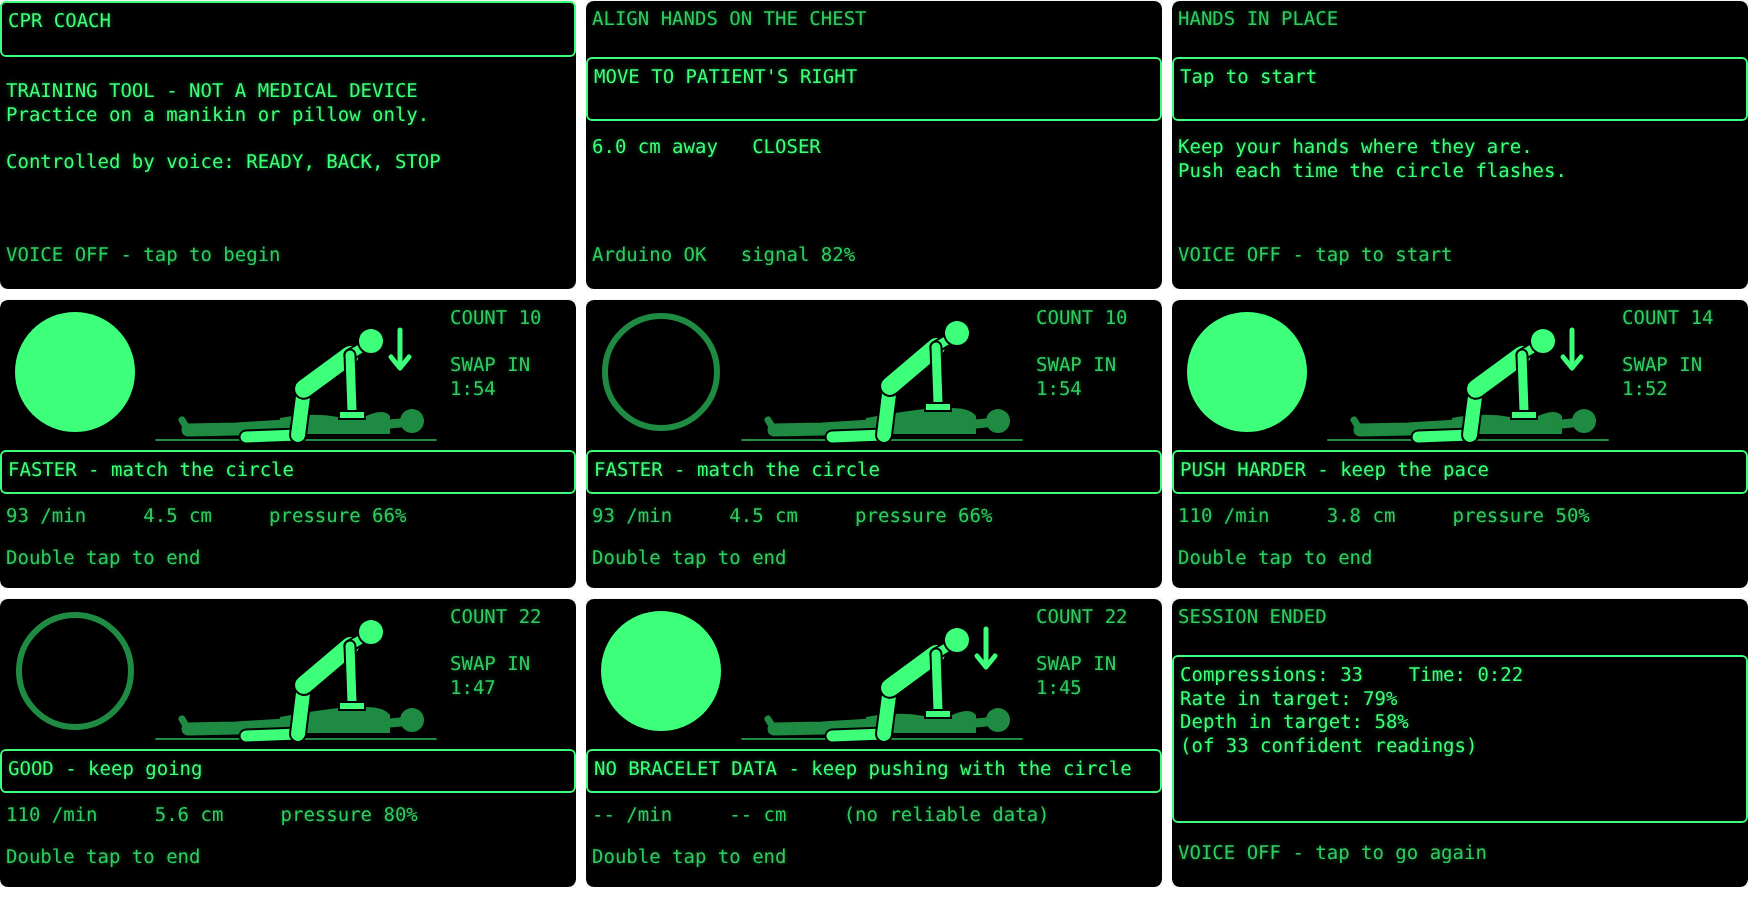
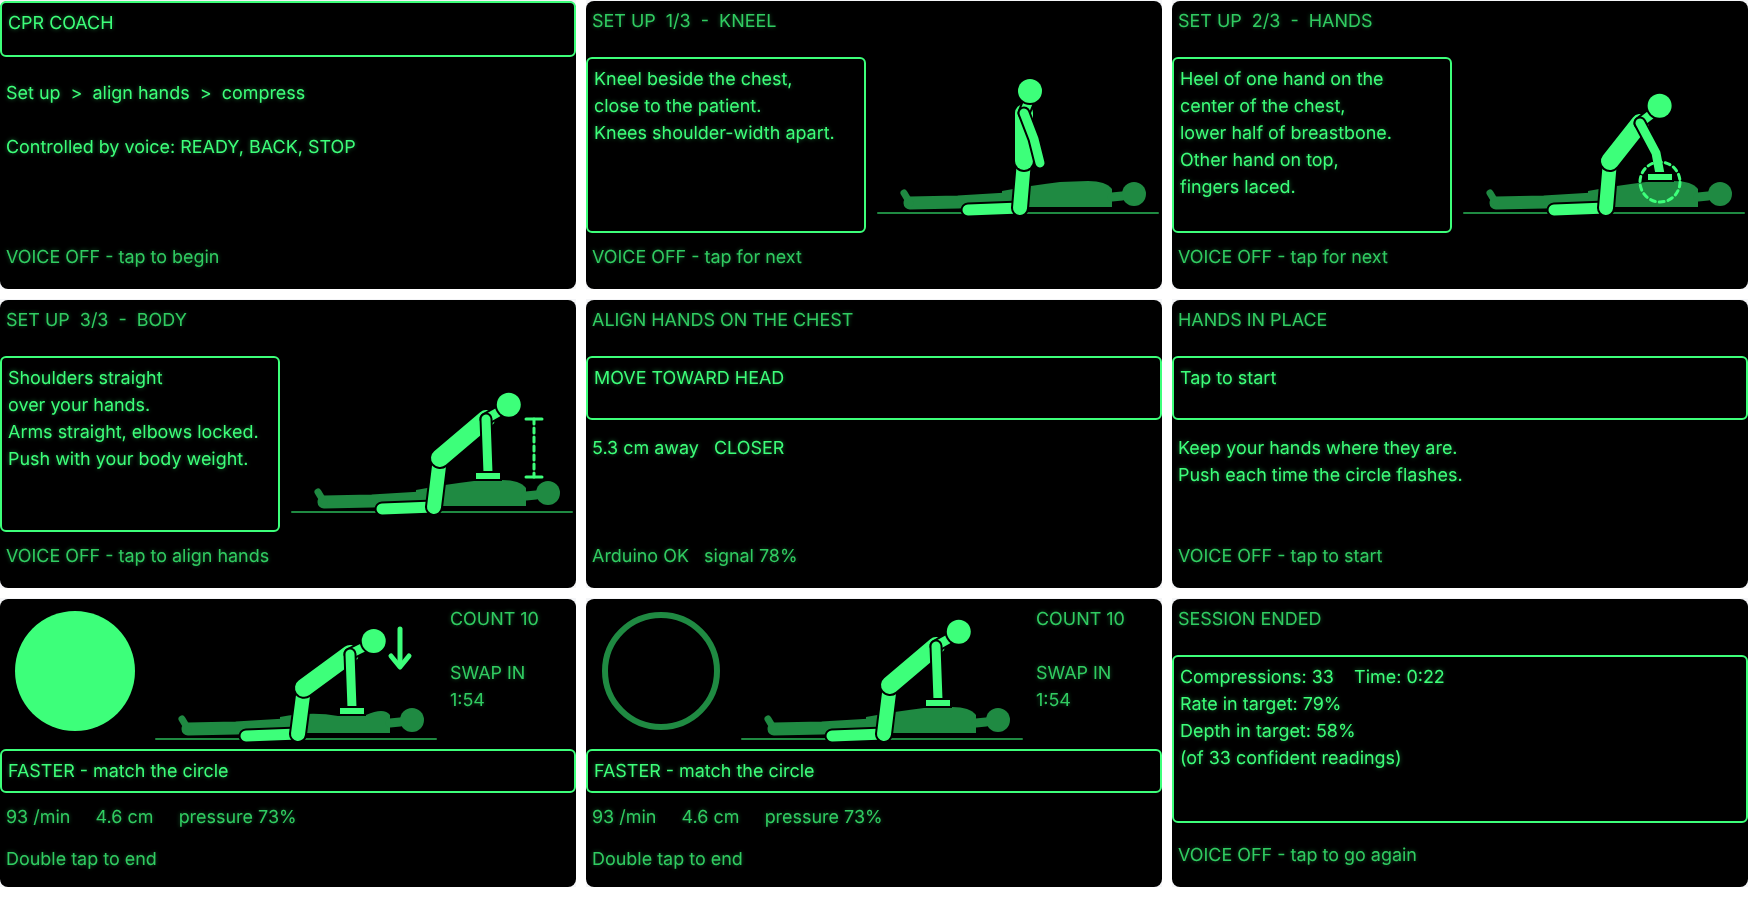
Glasses app: set-up pictures, simpler splash, calibrated preview
- Each set-up step (kneel, hands, body) shows a picture of the position,
  drawn with the same figure as the compression animation. Set-up text
  rewrapped into a column beside it (checked with G2 font metrics).
- Splash shows the steps and voice commands; the disclaimer lines were
  removed from the glasses (still on the phone page).
- Figure drawing refactored into shared poses.
- Browser preview font calibrated to G2 text widths and 27 px lines,
  so it wraps like the glasses.
- Version 0.1.3.

Claude-Session: https://claude.ai/code/session_017XyC9ZT1ua6WaKvQEUxhor

diff --git a/glasses-app/src/display/frames.ts b/glasses-app/src/display/frames.ts
@@ -4,6 +4,7 @@
  * - Pace circle: "beat-on" (filled disc) / "beat-off" (dim ring), flashed on each beat.
  * - CPR figure: "cpr-up" (arms straight, shoulders high) / "cpr-down" (pushing,
  *   chest compressed), swapped in time with the circle.
+ * - Set-up pictures (static): "setup-kneel", "setup-hands", "setup-body".
  *
  * The glasses get PNG bytes (white on black; the host converts to 4-bit grey and
  * the display tints it green). The browser preview gets a green version.
@@ -40,32 +41,55 @@ export function drawBeatCircle(ctx: CanvasRenderingContext2D, on: boolean, color
   }
 }
 
-/**
- * Draw one frame. `push` = 0 (top of stroke) .. 1 (bottom of stroke).
- *
- * Side view, patient on their back (head right), rescuer kneeling at the chest:
- * shoulders straight above the hands, arms locked. Because the arms are locked,
- * the shoulders drop by exactly the compression depth; the hips act as the hinge.
- */
-export function drawCprFigure(ctx: CanvasRenderingContext2D, push: number, color: string, dim: string): void {
+type P = [number, number];
+
+/** A rescuer pose, in figure coordinates (288 x 144, ground at y = 137). */
+interface Pose {
+  hip: P;
+  shoulder: P;
+  /** Shoulder -> (elbow ->) hands. Last point is where the hands are. */
+  arms: P[];
+  /** Draw stacked hands as a block at the end of the arms. */
+  handsOnChest: boolean;
+}
+
+interface SceneOpts {
+  /** Chest compression depth in px (0..8). */
+  depth?: number;
+  /** Down arrow (push frame). */
+  arrow?: boolean;
+  /** Dashed ring around the hand spot on the chest. */
+  highlightSpot?: boolean;
+  /** Dashed bracket from shoulder height to the hands ("shoulders over hands"). */
+  plumbLine?: boolean;
+}
+
+const GROUND = 137;
+const CHEST_X = 200;
+const chestTop = (depth: number) => 107 + depth;
+
+/** Patient + rescuer side view, shared by the set-up pictures and the CPR animation. */
+function drawScene(ctx: CanvasRenderingContext2D, pose: Pose, color: string, dim: string, o: SceneOpts = {}): void {
   const w = FIGURE_W;
   const h = FIGURE_H;
+  const depth = o.depth ?? 0;
   ctx.fillStyle = '#000';
   ctx.fillRect(0, 0, w, h);
   ctx.lineCap = 'round';
   ctx.lineJoin = 'round';
 
-  type P = [number, number];
   const path = (pts: P[]) => {
     ctx.beginPath();
     ctx.moveTo(pts[0][0], pts[0][1]);
     for (const [x, y] of pts.slice(1)) ctx.lineTo(x, y);
   };
-  const stroke = (pts: P[], width: number, c: string) => {
+  const stroke = (pts: P[], width: number, c: string, dash: number[] = []) => {
     path(pts);
+    ctx.setLineDash(dash);
     ctx.strokeStyle = c;
     ctx.lineWidth = width;
     ctx.stroke();
+    ctx.setLineDash([]);
   };
   /** Bright limb with a black outline so it reads clearly where it crosses the patient. */
   const limb = (pts: P[], width: number) => {
@@ -73,32 +97,26 @@ export function drawCprFigure(ctx: CanvasRenderingContext2D, push: number, color
     stroke(pts, width, color);
   };
   const disc = (x: number, y: number, r: number, c: string, outline = false) => {
+    if (outline) disc(x, y, r + 2, '#000');
     ctx.beginPath();
-    ctx.arc(x, y, r + (outline ? 2 : 0), 0, Math.PI * 2);
-    ctx.fillStyle = outline ? '#000' : c;
+    ctx.arc(x, y, r, 0, Math.PI * 2);
+    ctx.fillStyle = c;
     ctx.fill();
-    if (outline) disc(x, y, r, c);
   };
 
-  const ground = 137;
-  const depth = 8 * push; // compression depth in px (chest dip = shoulder drop)
-
   // Ground
-  stroke([[4, ground + 3], [w - 4, ground + 3]], 2, dim);
+  stroke([[4, GROUND + 3], [w - 4, GROUND + 3]], 2, dim);
 
-  // ---- Patient (dim) ----
-  const chestX = 200;
-  const chestTop = 107 + depth;
-  // Legs
-  stroke([[134, 126], [84, 129], [36, 130]], 13, dim);
+  // ---- Patient (dim), on their back, head to the right ----
+  const top = chestTop(depth);
+  stroke([[134, 126], [84, 129], [36, 130]], 13, dim); // legs
   stroke([[36, 130], [30, 120]], 7, dim); // feet pointing up
-  // Torso as a filled shape: back on the ground, chest rising under the hands.
   ctx.fillStyle = dim;
   ctx.beginPath();
   ctx.moveTo(128, 134);
   ctx.lineTo(128, 118);
-  ctx.quadraticCurveTo(160, 112, chestX - 14, chestTop + 2);
-  ctx.lineTo(chestX + 14, chestTop + 1);
+  ctx.quadraticCurveTo(160, 112, CHEST_X - 14, top + 2);
+  ctx.lineTo(CHEST_X + 14, top + 1);
   ctx.quadraticCurveTo(232, 108, 238, 116);
   ctx.lineTo(238, 134);
   ctx.closePath();
@@ -106,32 +124,93 @@ export function drawCprFigure(ctx: CanvasRenderingContext2D, push: number, color
   stroke([[238, 124], [248, 123]], 9, dim); // neck
   disc(260, 121, 12, dim); // head
 
-  // ---- Rescuer (bright) ----
-  const foot: P = [94, ground];
-  const knee: P = [146, ground - 2];
-  const hip: P = [152, 86 + depth * 0.35];
-  const shoulder: P = [chestX - 2, 47 + depth];
-  const hands: P = [chestX, chestTop + 2];
+  // ---- Rescuer (bright), kneeling at the chest ----
+  const foot: P = [94, GROUND];
+  const knee: P = [146, GROUND - 2];
   limb([foot, knee], 11); // shin on the ground
-  limb([knee, hip], 14); // thigh, nearly upright
-  limb([hip, shoulder], 18); // back, leaning forward from the hips
-  // Head and neck, looking down at the chest.
-  limb([shoulder, [shoulder[0] + 13, shoulder[1] - 8]], 9);
-  disc(shoulder[0] + 21, shoulder[1] - 14, 12, color, true);
-  // Arms locked straight, shoulders over hands.
-  limb([shoulder, [hands[0], hands[1] - 6]], 9);
-  // Hands stacked on the centre of the chest.
-  ctx.fillStyle = '#000';
-  ctx.fillRect(hands[0] - 14, hands[1] - 7, 28, 10);
-  ctx.fillStyle = color;
-  ctx.fillRect(hands[0] - 12, hands[1] - 5, 24, 6);
+  limb([knee, pose.hip], 14); // thigh
+  limb([pose.hip, pose.shoulder], 18); // back
+  // Head continues the line of the back, tipped slightly forward to look at the chest.
+  const dx = pose.shoulder[0] - pose.hip[0];
+  const dy = pose.shoulder[1] - pose.hip[1];
+  const len = Math.hypot(dx, dy);
+  const ux = dx / len;
+  const uy = dy / len;
+  limb([pose.shoulder, [pose.shoulder[0] + ux * 10 + 4, pose.shoulder[1] + uy * 10]], 9);
+  disc(pose.shoulder[0] + ux * 22 + 6, pose.shoulder[1] + uy * 22, 12, color, true);
+  limb(pose.arms, 9);
+  const hands = pose.arms[pose.arms.length - 1];
+  if (pose.handsOnChest) {
+    ctx.fillStyle = '#000';
+    ctx.fillRect(hands[0] - 14, hands[1] - 2, 28, 10);
+    ctx.fillStyle = color;
+    ctx.fillRect(hands[0] - 12, hands[1], 24, 6);
+  }
 
-  // Push arrow on the down frame.
-  if (push > 0.5) {
-    const ax = chestX + 48;
+  if (o.highlightSpot) {
+    ctx.setLineDash([5, 4]);
+    ctx.strokeStyle = color;
+    ctx.lineWidth = 3;
+    ctx.beginPath();
+    ctx.arc(CHEST_X, top + 2, 20, 0, Math.PI * 2);
+    ctx.stroke();
+    ctx.setLineDash([]);
+  }
+  if (o.plumbLine) {
+    // Bracket from shoulder height down to the hands: "shoulders straight over hands".
+    const bx = CHEST_X + 46;
+    const y0 = pose.shoulder[1];
+    const y1 = top - 2;
+    stroke([[bx, y0], [bx, y1]], 3, color, [5, 4]);
+    stroke([[bx - 8, y0], [bx + 8, y0]], 3, color);
+    stroke([[bx - 8, y1], [bx + 8, y1]], 3, color);
+  }
+  if (o.arrow) {
+    const ax = CHEST_X + 48;
     stroke([[ax, 30], [ax, 66]], 5, color);
     stroke([[ax - 9, 57], [ax, 68], [ax + 9, 57]], 5, color);
   }
+}
+
+/** Compression pose: shoulders straight over the hands, arms locked. */
+function cprPose(depth: number): Pose {
+  const hands: P = [CHEST_X, chestTop(depth) - 2];
+  const shoulder: P = [CHEST_X - 2, 47 + depth]; // arms locked: shoulders drop with the chest
+  return { hip: [152, 86 + depth * 0.35], shoulder, arms: [shoulder, [hands[0], hands[1] - 4]], handsOnChest: true };
+}
+
+/**
+ * CPR animation frame. `push` = 0 (top of stroke) .. 1 (bottom of stroke).
+ * Because the arms are locked, the shoulders drop by exactly the compression
+ * depth; the hips act as the hinge.
+ */
+export function drawCprFigure(ctx: CanvasRenderingContext2D, push: number, color: string, dim: string): void {
+  const depth = 8 * push;
+  drawScene(ctx, cprPose(depth), color, dim, { depth, arrow: push > 0.5 });
+}
+
+/** Set-up step 1 - KNEEL: kneeling upright, close to the patient's side, hands resting on thighs. */
+export function drawSetupKneel(ctx: CanvasRenderingContext2D, color: string, dim: string): void {
+  const shoulder: P = [150, 40];
+  drawScene(ctx, { hip: [150, 88], shoulder, arms: [shoulder, [160, 66], [166, 90]], handsOnChest: false }, color, dim);
+}
+
+/** Set-up step 2 - HANDS: reaching to the centre of the chest; the hand spot is circled. */
+export function drawSetupHands(ctx: CanvasRenderingContext2D, color: string, dim: string): void {
+  const shoulder: P = [180, 50];
+  const hands: P = [CHEST_X, chestTop(0) - 2];
+  drawScene(
+    ctx,
+    { hip: [150, 88], shoulder, arms: [shoulder, [196, 80], [hands[0], hands[1] - 4]], handsOnChest: true },
+    color,
+    dim,
+    { highlightSpot: true },
+  );
+}
+
+/** Set-up step 3 - BODY: final position, shoulders over hands (dashed guide), arms locked. */
+export function drawSetupBody(ctx: CanvasRenderingContext2D, color: string, dim: string): void {
+  drawScene(ctx, cprPose(0), color, dim, { plumbLine: true });
 }
 
 type Draw = (ctx: CanvasRenderingContext2D, color: string, dim: string) => void;
@@ -152,6 +231,9 @@ export async function buildFrames(): Promise<FrameStore> {
     ['beat-off', BEAT_SIZE, BEAT_SIZE, (c, col, dim) => drawBeatCircle(c, false, col, dim)],
     ['cpr-up', FIGURE_W, FIGURE_H, (c, col, dim) => drawCprFigure(c, 0, col, dim)],
     ['cpr-down', FIGURE_W, FIGURE_H, (c, col, dim) => drawCprFigure(c, 1, col, dim)],
+    ['setup-kneel', FIGURE_W, FIGURE_H, drawSetupKneel],
+    ['setup-hands', FIGURE_W, FIGURE_H, drawSetupHands],
+    ['setup-body', FIGURE_W, FIGURE_H, drawSetupBody],
   ];
   const store: FrameStore = new Map();
   for (const [name, w, h, draw] of specs) {

diff --git a/glasses-app/src/guidance.ts b/glasses-app/src/guidance.ts
@@ -17,25 +17,30 @@ export const TARGETS = {
   depthMaxCm: 6,
   /** Suggested time before swapping compressors. */
   swapSeconds: 120,
-  /** Pace of the flashing dot - middle of the target rate range. */
+  /** Pace of the flashing circle and phone beep - middle of the target rate range. */
   metronomeBpm: 110,
 } as const;
 
-/** Body-positioning instructions shown before hand alignment. Keep lines short (~34 chars). */
-export const SETUP_PAGES: { title: string; body: string }[] = [
+/**
+ * Body-positioning instructions shown before hand alignment, each with a picture
+ * (frame key in display/frames.ts). Text sits in a ~264 px column next to the
+ * picture: max 5 lines; layout.test.ts checks it fits with the G2 font.
+ */
+export const SETUP_PAGES: { title: string; body: string; frame: string }[] = [
   {
     title: 'KNEEL',
-    body: "Kneel at the patient's side,\nclose to their chest.\nKnees about shoulder-width apart.",
+    body: 'Kneel beside the chest,\nclose to the patient.\nKnees shoulder-width apart.',
+    frame: 'setup-kneel',
   },
   {
     title: 'HANDS',
-    body: 'Heel of one hand on the center\nof the chest (lower breastbone).\nOther hand on top, fingers laced.',
+    body: 'Heel of one hand on the\ncenter of the chest,\nlower half of breastbone.\nOther hand on top,\nfingers laced.',
+    frame: 'setup-hands',
   },
   {
     title: 'BODY',
-    body: 'Shoulders straight over hands.\nArms straight, elbows locked.\nPush down with your body weight.',
+    body: 'Shoulders straight\nover your hands.\nArms straight, elbows locked.\nPush with your body weight.',
+    frame: 'setup-body',
   },
 ];
 
-export const DISCLAIMER =
-  'TRAINING TOOL - NOT A MEDICAL DEVICE\nPractice on a manikin or pillow only.';

diff --git a/glasses-app/src/screens.ts b/glasses-app/src/screens.ts
@@ -17,7 +17,7 @@ import {
   type PlacementView,
 } from './coach';
 import { SCREEN_H, type Page, type TextBox } from './display/types';
-import { DISCLAIMER, SETUP_PAGES, TARGETS } from './guidance';
+import { SETUP_PAGES, TARGETS } from './guidance';
 import type { SourceStatus } from './sources/types';
 import type { VoiceStatus } from './voice/commands';
 
@@ -39,7 +39,7 @@ export function splashScreen(voice: VoiceStatus): Page {
     layout: 'splash',
     boxes: [
       cue('CPR COACH', 0, 56),
-      { name: 'body', x: 0, y: 72, w: W, h: 150, content: `${DISCLAIMER}\n\nControlled by voice: READY, BACK, STOP` },
+      { name: 'body', x: 0, y: 72, w: W, h: 150, content: 'Set up  >  align hands  >  compress\n\nControlled by voice: READY, BACK, STOP' },
       footer(sayReady(voice, 'to begin')),
     ],
   };
@@ -52,9 +52,11 @@ export function setupScreen(index: number, voice: VoiceStatus): Page {
     layout: 'setup',
     boxes: [
       header(`SET UP  ${index + 1}/${SETUP_PAGES.length}  -  ${p.title}`),
-      { name: 'body', x: 0, y: 56, w: W, h: 168, content: p.body, border: 2 },
+      { name: 'body', x: 0, y: 56, w: 280, h: 176, content: p.body, border: 2 },
       footer(sayReady(voice, last ? 'to align hands' : 'for next')),
     ],
+    // Picture of the step; same layout for all 3 pages, so paging only swaps the image.
+    images: [{ name: 'figure', x: 288, y: 72, w: 288, h: 144, frame: p.frame }],
   };
 }
 

diff --git a/glasses-app/src/display/browser.ts b/glasses-app/src/display/browser.ts
@@ -24,6 +24,23 @@ export class BrowserDisplay implements Display {
     this.errorEl = document.createElement('div');
     this.errorEl.className = 'g2-error';
     host.append(this.screen, this.errorEl);
+    this.calibrateFont();
+  }
+
+  /**
+   * Scale the preview font so text is as wide as on the glasses. The sample's
+   * width in the G2 firmware font (915 px) was measured with @evenrealities/pretext.
+   * Line height is the G2's fixed 27 px (set in index.html).
+   */
+  private calibrateFont(): void {
+    const SAMPLE = 'The quick brown fox jumps over the lazy dog. PACK MY BOX WITH FIVE DOZEN LIQUOR JUGS 0123456789';
+    const G2_WIDTH = 915;
+    const ctx = document.createElement('canvas').getContext('2d');
+    if (!ctx) return;
+    const family = getComputedStyle(this.screen).fontFamily;
+    ctx.font = `20px ${family}`;
+    const measured = ctx.measureText(SAMPLE).width;
+    if (measured > 0) this.screen.style.fontSize = `${((20 * G2_WIDTH) / measured).toFixed(2)}px`;
   }
 
   async show(page: Page): Promise<void> {

diff --git a/glasses-app/src/app.test.ts b/glasses-app/src/app.test.ts
@@ -50,8 +50,12 @@ describe('CoachApp flow', () => {
     expect(display.text.get('footer')).toBe('Say "READY" to begin');
     app.command('ready');
     expect(app.phase).toBe('setup');
+    // Each set-up step shows its own picture.
+    expect(display.pages[display.pages.length - 1].images![0].frame).toBe('setup-kneel');
     app.command('ready');
+    expect(display.figure[display.figure.length - 1]).toBe('setup-hands');
     app.command('back');
+    expect(display.figure[display.figure.length - 1]).toBe('setup-kneel');
     app.command('ready');
     app.command('ready');
     app.command('ready');

diff --git a/glasses-app/src/app.ts b/glasses-app/src/app.ts
@@ -291,8 +291,10 @@ export class CoachApp {
       this.layout = page.layout;
       void this.display.show(page);
     } else {
-      // Images (circle, figure) are driven by the beat timer, not by data renders.
       for (const b of page.boxes) void this.display.update(b.name, b.content);
+      // On the compression screen the beat timer drives the images; elsewhere
+      // (set-up pictures) follow the page.
+      if (page.layout !== 'compress') for (const im of page.images ?? []) void this.display.setImage(im.name, im.frame);
     }
   }
 }

diff --git a/glasses-app/index.html b/glasses-app/index.html
@@ -43,7 +43,8 @@
         position: relative;
         background: #000;
         border-radius: 8px;
-        font: 19px/1.25 "DejaVu Sans Mono", Menlo, Consolas, monospace;
+        /* Size is calibrated at runtime to match G2 text widths (display/browser.ts); 27 px lines like the glasses. */
+        font: 20px/27px system-ui, -apple-system, "Segoe UI", Roboto, sans-serif;
         color: var(--g2);
         text-shadow: 0 0 4px rgba(61, 255, 122, 0.45);
         flex: none;

diff --git a/glasses-app/README.md b/glasses-app/README.md
@@ -18,8 +18,8 @@ The app is **voice controlled** — the rescuer's hands stay on the chest:
 
 Touchpad / ring taps still work as a fallback; the screen only mentions them when voice isn't available (e.g. the speech model is missing), so the rescuer is never stuck.
 
-1. **Splash** — disclaimer. Say READY.
-2. **Set up (3 pages)** — how to kneel, where to put your hands, how to hold your body. Say READY for each page.
+1. **Splash** — app name, the steps, and the voice commands. Say READY.
+2. **Set up (3 pages)** — how to kneel, where to put your hands, how to hold your body, each with a picture of the position (same figure style as the compression animation). Say READY for each page.
 3. **Align hands** — hands-free: the Arduino says which way to move (toward head / feet / left / right), how far, and CLOSER / FARTHER. Holding on the spot for 1.5 s moves on by itself. If hand tracking is lost, say READY to continue anyway — a sensor never blocks CPR.
 4. **Ready** — say READY to start. If your hands drift off the spot for 1 s you go back to aligning.
 5. **Compress** — kept simple:
@@ -141,7 +141,7 @@ Before packaging, put the Arduino's address in `app.json` → `permissions[netwo
 | `src/sources/websocket.ts` | Real Arduino WebSocket client (auto-reconnect) |
 | `src/display/even.ts` | G2 rendering via Even Hub SDK (deduped, coalesced text updates) |
 | `src/display/browser.ts` | Approximate browser preview / phone mirror |
-| `src/display/frames.ts` | Pace circle + CPR figure frames (canvas-drawn PNGs) for the image containers |
+| `src/display/frames.ts` | Pace circle, CPR animation and set-up pictures (canvas-drawn PNGs) for the image containers |
 | `src/beeper.ts` | Phone beep on every beat (Web Audio, scheduled ahead) |
 | `src/layout.test.ts` | Checks all screen text fits, using Even's G2 font metrics |
 | `src/voice/commands.ts` | Voice commands (READY / BACK / STOP) |
